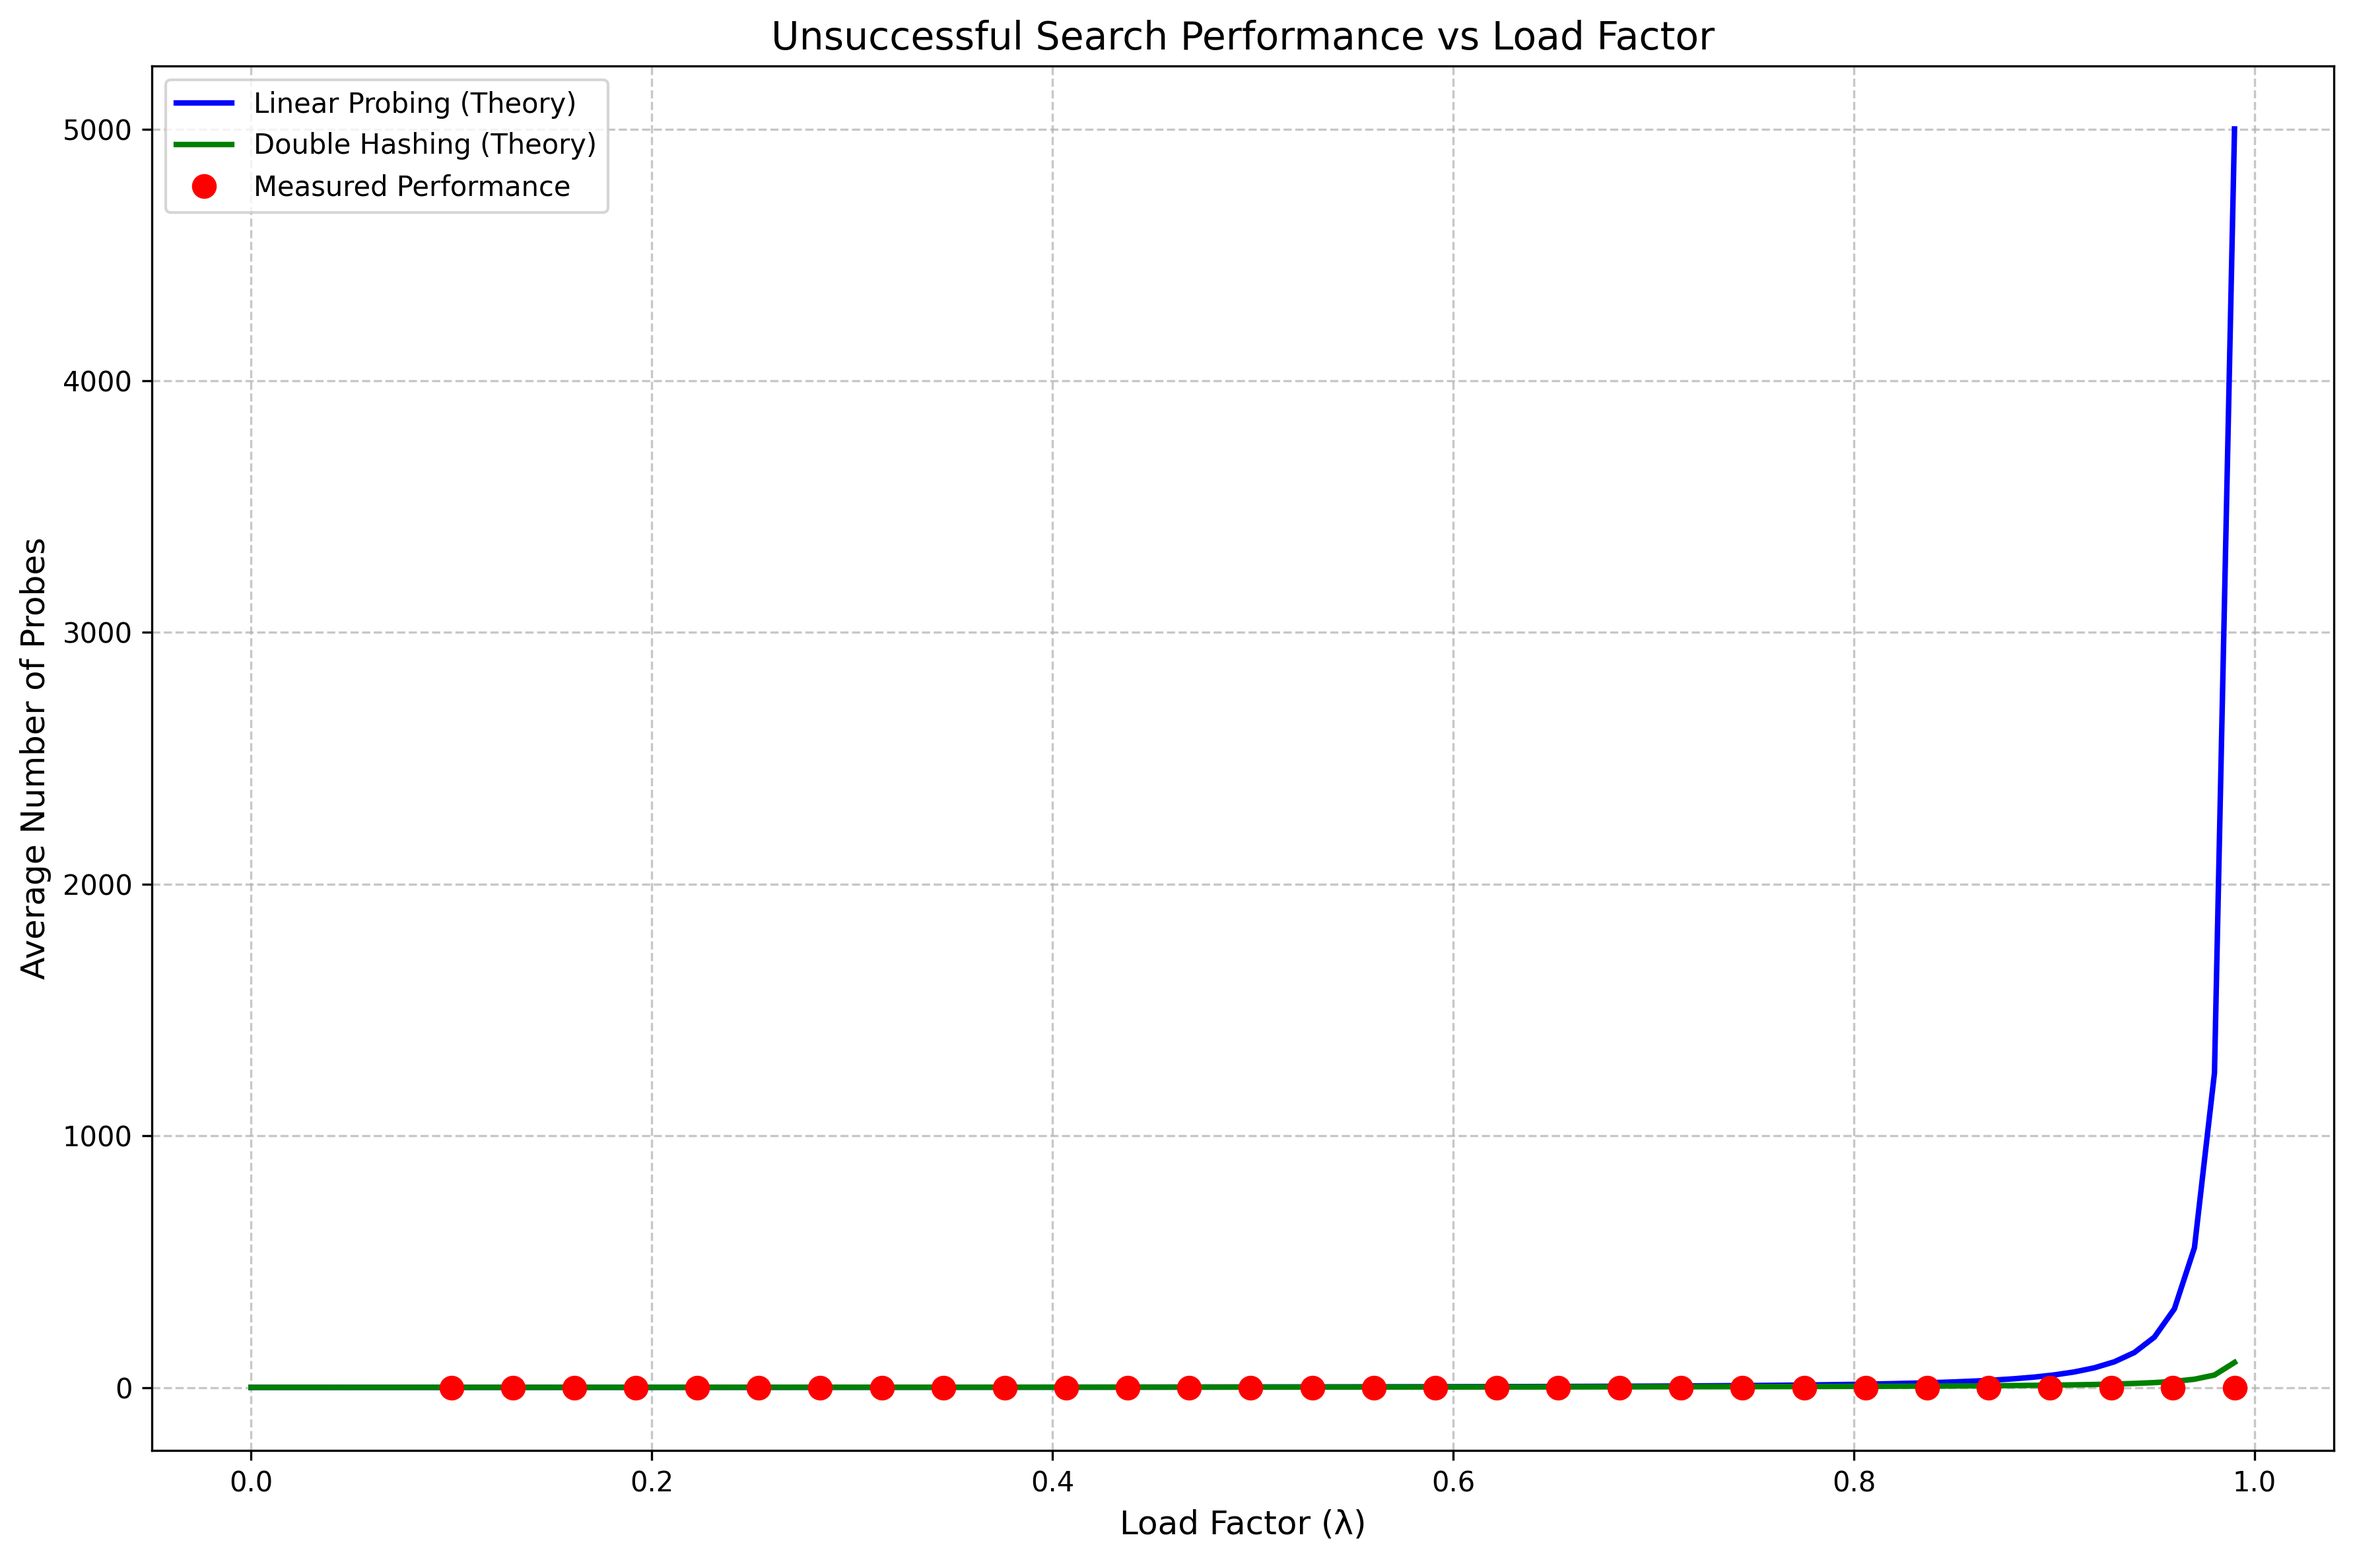
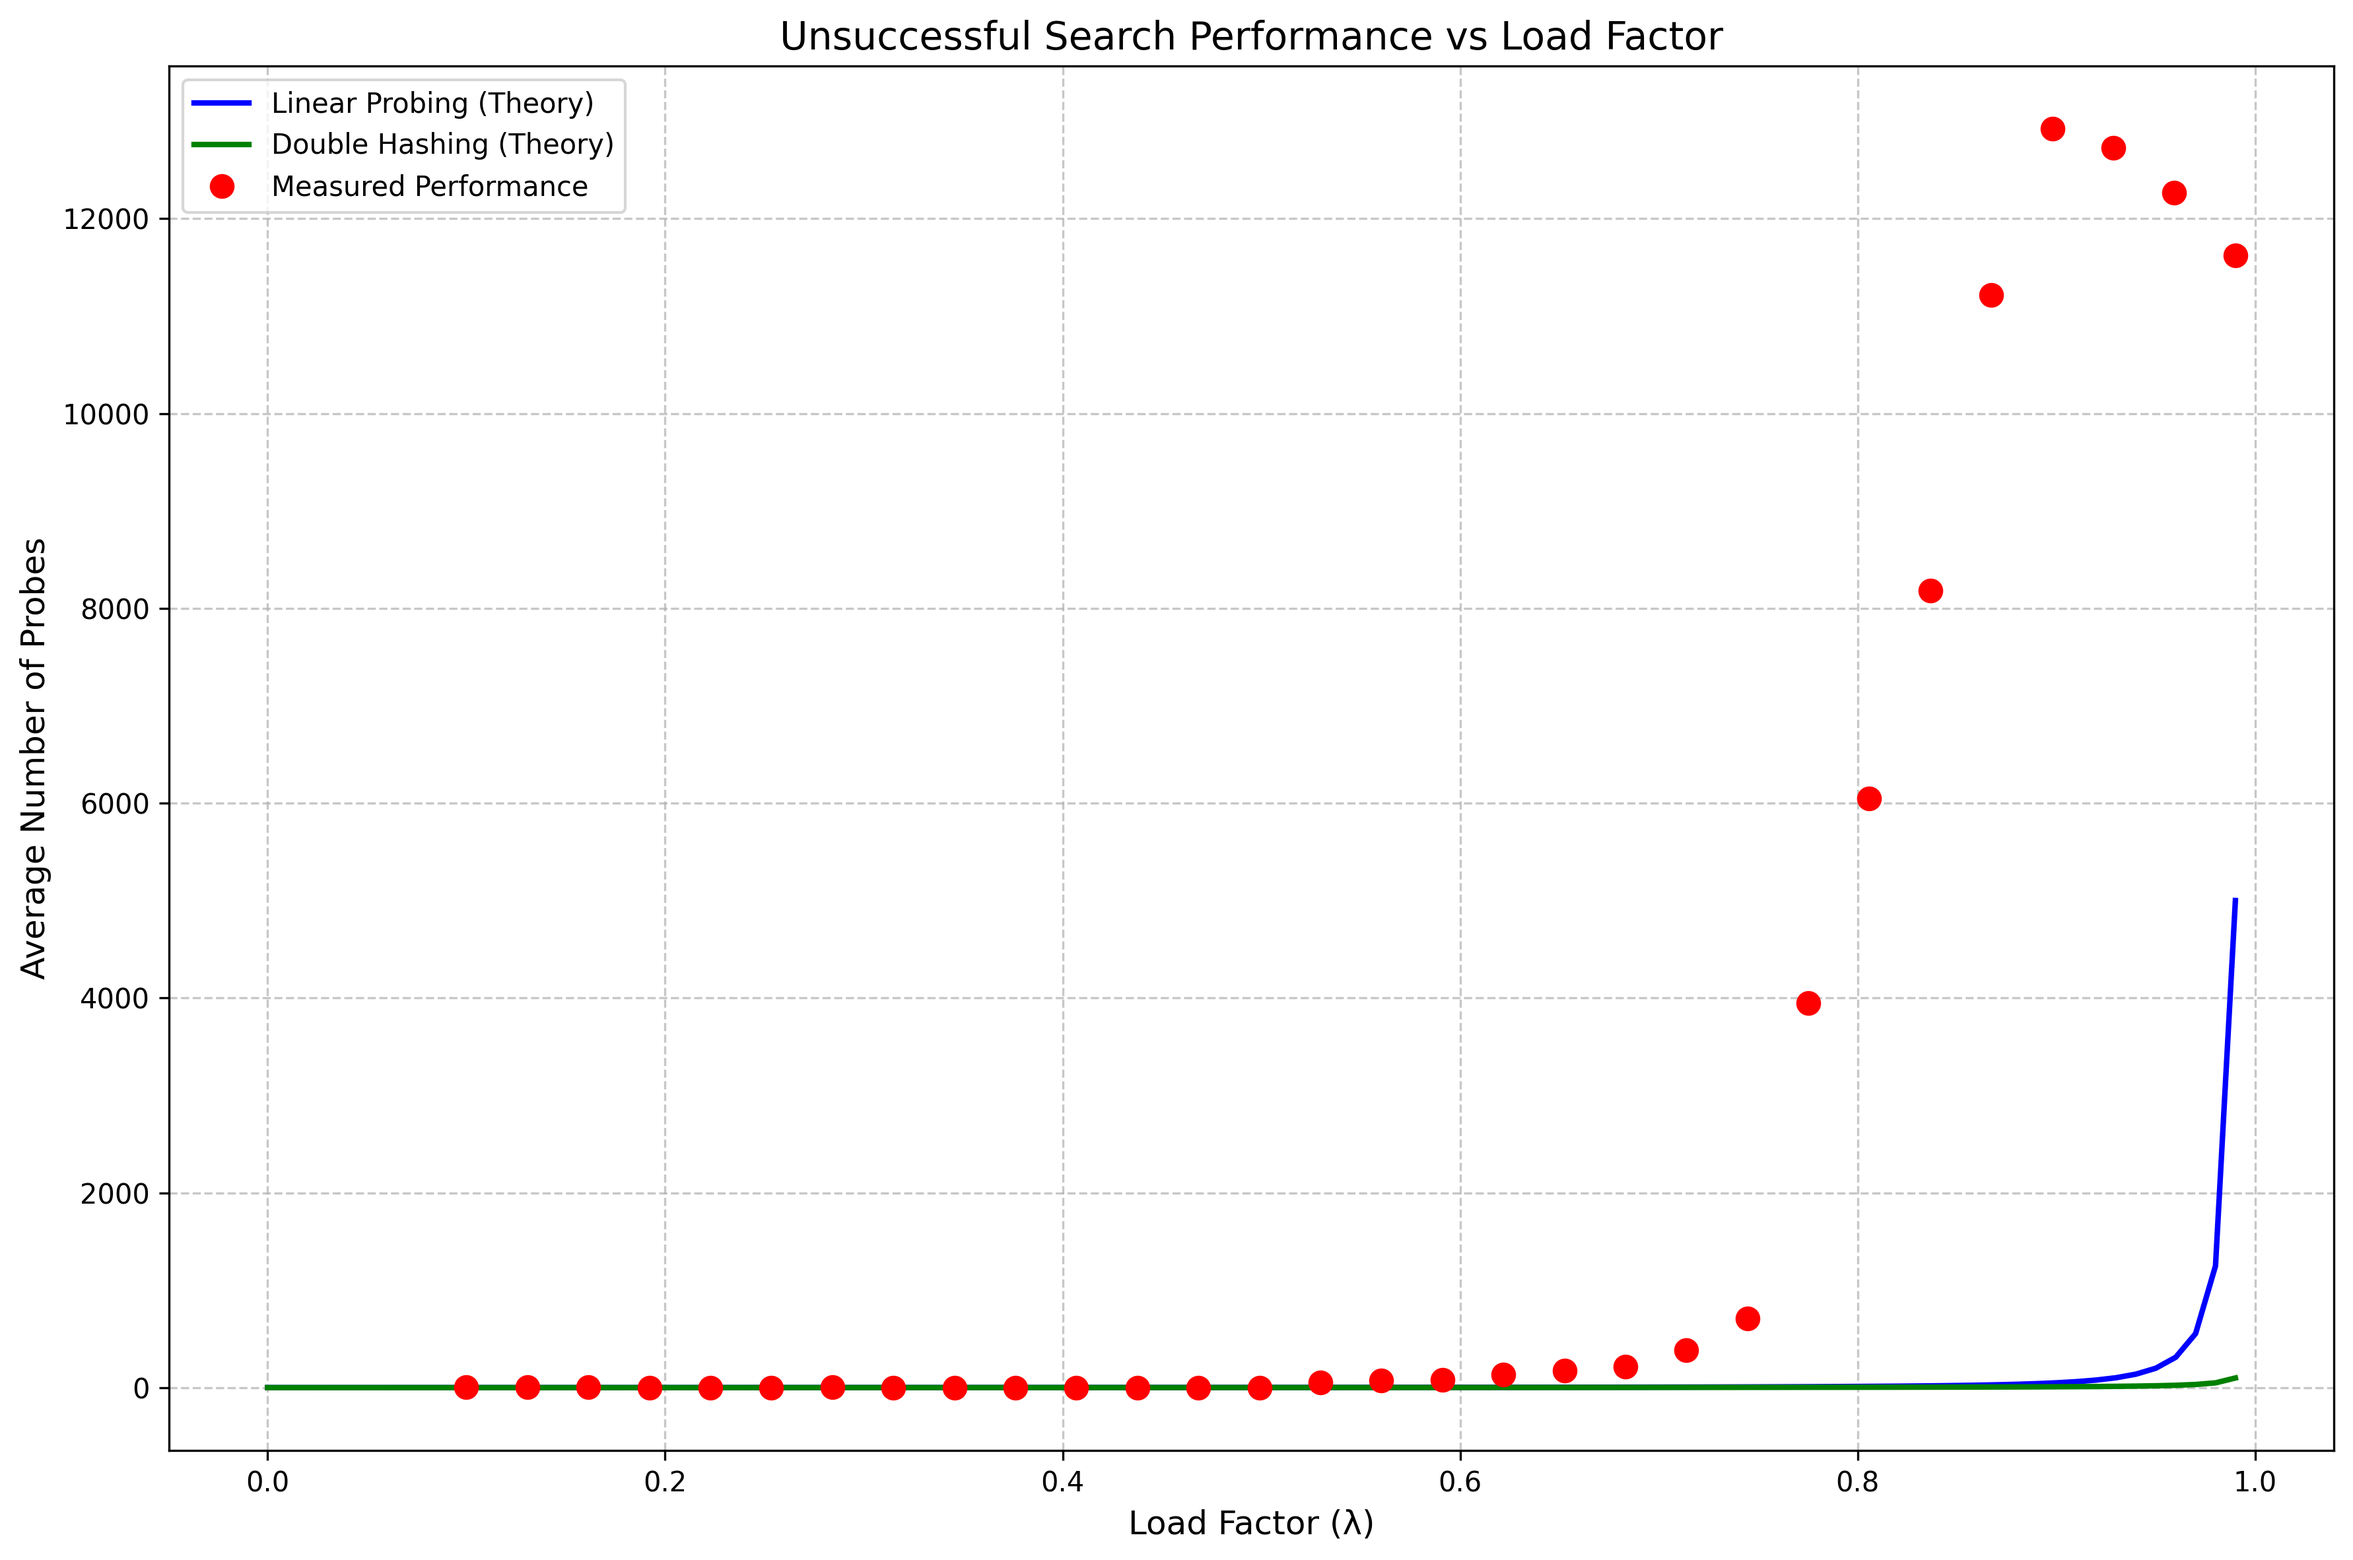
updates

diff --git a/visualizer.py b/visualizer.py
@@ -17,7 +17,6 @@ class Visualizer:
         plt.close()
 
     def plot_load_factor_timing(self, load_factors, results, Q):
-        # Plot for successful searches
         plt.figure(figsize=(12, 8))
         lambda_vals = np.linspace(0, 0.99, 100)
         
@@ -26,34 +25,14 @@ class Visualizer:
         double_succ = [0.5 * (1/(1-x)) for x in lambda_vals]
         measured_succ = [Q*x for x in results['successful']]
         
-        plt.plot(lambda_vals, linear_succ, 'b-', linewidth=2, label='Linear Probing (Theory)')
-        plt.plot(lambda_vals, double_succ, 'g-', linewidth=2, label='Double Hashing (Theory)')
-        plt.plot(load_factors, measured_succ, 'ro', markersize=8, label='Measured Performance')
+        plt.plot(lambda_vals, linear_succ, 'b-', label='Linear Probing (Theory)')
+        plt.plot(lambda_vals, double_succ, 'g-', label='Double Hashing (Theory)')
+        plt.plot(load_factors, measured_succ, 'ro', label='Measured')
         
-        plt.xlabel('Load Factor (λ)', fontsize=12)
-        plt.ylabel('Average Number of Probes', fontsize=12)
-        plt.title('Successful Search Performance vs Load Factor', fontsize=14)
-        plt.legend(fontsize=10)
-        plt.grid(True, linestyle='--', alpha=0.7)
-        plt.tight_layout()
-        plt.savefig('time_succ.png', dpi=300, bbox_inches='tight')
-        plt.close()
-
-        # Plot for unsuccessful searches
-        plt.figure(figsize=(12, 8))
-        linear_fail = [0.5 * (1 + 1/((1-x)**2)) for x in lambda_vals]
-        double_fail = [1/(1-x) for x in lambda_vals]
-        measured_fail = [Q*x for x in results['unsuccessful']]
-        
-        plt.plot(lambda_vals, linear_fail, 'b-', linewidth=2, label='Linear Probing (Theory)')
-        plt.plot(lambda_vals, double_fail, 'g-', linewidth=2, label='Double Hashing (Theory)')
-        plt.plot(load_factors, measured_fail, 'ro', markersize=8, label='Measured Performance')
-        
-        plt.xlabel('Load Factor (λ)', fontsize=12)
-        plt.ylabel('Average Number of Probes', fontsize=12)
-        plt.title('Unsuccessful Search Performance vs Load Factor', fontsize=14)
-        plt.legend(fontsize=10)
-        plt.grid(True, linestyle='--', alpha=0.7)
-        plt.tight_layout()
-        plt.savefig('time_fail.png', dpi=300, bbox_inches='tight')
+        plt.xlabel('Load Factor (λ)')
+        plt.ylabel('Average Probes')
+        plt.title('Hash Table Performance vs Load Factor')
+        plt.legend()
+        plt.grid(True)
+        plt.savefig('time_succ.png')
         plt.close()

diff --git a/data_generator.py b/data_generator.py
@@ -1,13 +1,13 @@
 import random
 
 class DataGenerator:
-    def generate_dataset(self, size=131072):  # This is a large dataset
-        # Add progress indicator
-        print(f"Generating {size} unique 8-digit strings...")
+    def generate_dataset(self, size=131072):
+        """Generate unique 8-digit strings"""
+        print(f"Generating {size} unique strings...")
         numbers = set()
         while len(numbers) < size:
-            if len(numbers) % 10000 == 0:  # Show progress every 10000 numbers
-                print(f"Generated {len(numbers)} numbers...")
+            if len(numbers) % 10000 == 0:
+                print(f"Progress: {len(numbers)}/{size}")
             num = f"{random.randint(10000000, 99999999)}"
             numbers.add(num)
         
@@ -15,13 +15,8 @@ class DataGenerator:
         mid = size // 2
         return numbers, numbers[:mid], numbers[mid:]
 
-    @staticmethod
-    def verify_unique(values):
-        """Verify all values are unique"""
-        return len(values) == len(set(values))
-
-    def verify_dataset(self, dataset):
-        """Verify dataset has unique 8-digit strings"""
-        if len(dataset) != len(set(dataset)):
+    def verify_unique(self, values):
+        """Verify all values are unique 8-digit strings"""
+        if len(values) != len(set(values)):
             return False
-        return all(s.isdigit() and len(s) == 8 for s in dataset)
+        return all(len(s) == 8 and s.isdigit() for s in values)

diff --git a/timing_analysis.py b/timing_analysis.py
@@ -73,13 +73,15 @@ class TimingAnalysis:
         self._save_load_factor_results(load_factors, results, 'load_factor_timing.txt')
         return load_factors, results
 
-    def _save_results(self, results, filename):
-        """Save timing results to a file"""
+    def _save_timing_results(self, results, filename):
+        """Save timing results to file"""
         with open(filename, 'w') as f:
-            for strategy, times in results.items():
-                f.write(f"{strategy}:\n")
-                for i, time in enumerate(times):
-                    f.write(f"  q={i+4}: {time:.6f}\n")
+            f.write("Rehash Timing Results\n")
+            f.write("====================\n\n")
+            for strategy in ['no_rehash', 'double', 'add_10000']:
+                f.write(f"\n{strategy} strategy:\n")
+                for i, time in enumerate(results[strategy]):
+                    f.write(f"q={i+4}: {time:.6f}\n")
 
     def _save_load_factor_results(self, load_factors, results, filename):
         with open(filename, 'w') as f:
